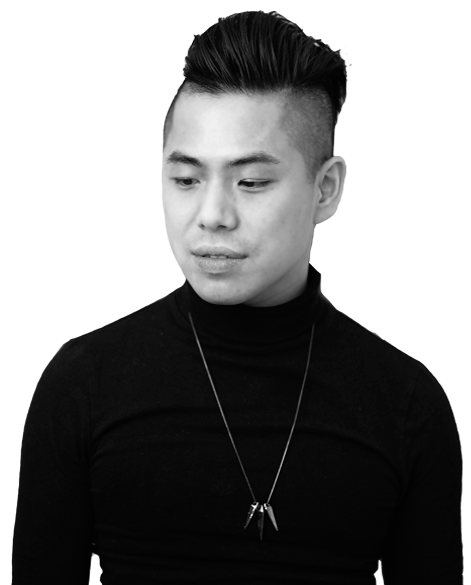
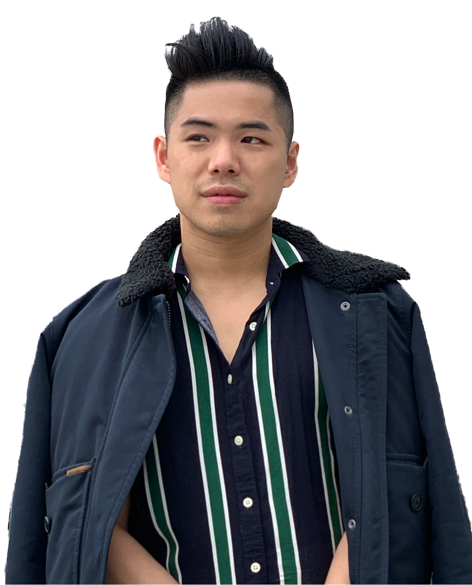
added opentable section added pictures added mail button

diff --git a/index.html b/index.html
@@ -26,7 +26,7 @@
 <section class="homepage"  id="home">
 <!-- CLOSES NAV -->
 			
-				<div class="img-responsive"><img style="width:100vw; position:absolute;bottom:-1px;left:-1px;" src="img/decor.svg" /></div>
+				<div class="img-responsive decor1"><img style="width:100vw; position:absolute;bottom:-1px;left:-1px;" src="img/decor.svg" /></div>
 				<div class="img-responsive"><img style="width:100vw; position:absolute;bottom:-1px; z-index:1000;" src="img/decor_2.svg" /></div>
 				<div class="container"> 
 					<div class="splash_img_mobile"><img src="img/dom.png" /></div>
@@ -41,7 +41,7 @@
 						<!--<div class="triangle front"></div> -->
 
 						<div class="col-md-4">
-							<div class="splash_img"><img src="img/dom.png" /></div>
+							<div class="splash_img"><img style="z-index:950;" src="img/dom.png" /></div>
 						</div>
 
 					</div>
@@ -56,6 +56,8 @@
 	</video>
 	</div>
 </section>-->
+
+
 
 <div class="navbar topnav" id="sticker" role="navigation" data-0="line-height:100px; height:100px;" data-250="line-height:60px; height:60px; background-color:rgba(255,255,255,1); box-shadow: 2px 2px 4px rgba(152,142,142,0.12);">
  
@@ -80,6 +82,27 @@
 <section id="section-works" class="section pad-bot30 ">
 		<div class="container"> 
 			<div class="row mar-bot40">
+
+
+<!-- opentable  -->
+<!--<article class="col-md-12">
+		<div class="portfolio-item" id="opentable">
+				<div class="col-md-4 project_thumb">
+						<img class="img-responsive mar-top15" src="img/opentable_thumb.png" />
+				</div>
+				<div class="col-md-8">
+						<h2 class="display_title">OpenTable - Dining Mode 2.0 </h2>
+						<h4 class="display_info">Mobile (B2C) | Company: OpenTable | 2020 </h4>
+	    	<p class="display_summary">This feature follows the users’ journey after booking. It houses other features that are programmatically changed depending on what part of the customer journey they’re in.</p>
+	    	
+	    	<div class="float_left mar-left15">
+	    	<a class ="primary_button" href="mailto:dom.pedruco@gmail.com">Request Link</a>
+	    	</div>
+	    	
+	</div>
+ </article>
+-->
+
 
 <!-- shipt  -->
 <article class="col-md-12">
@@ -136,8 +159,8 @@
 	</div>
  </article> 
 
-  <!-- Music Pix -->
-<article class="col-md-12 mar-top50">
+<!-- Music Pix -->
+ <!-- <article class="col-md-12 mar-top50">
 		<div class="portfolio-item" id="musicpix">
 				<div class="col-md-4 project_thumb">
 						<img class="img-responsive mar-top15" src="img/musicpix_thumb.png" />
@@ -153,6 +176,7 @@
 	    	
 	</div>
 </article>
+-->
 
 <!-- logos   -->
 <article class="col-md-12 mar-top50">
@@ -185,15 +209,14 @@
 			<br>
 			<h2 class="text-center txt-bold">Hello There!  </h2>
 			<br>
-			<p>I'm Dom, a Product Designer and San Francisco native working in the Bay Area. I graduated from the Academy of Art University with a BFA in Web Design and New Media.  I started my career working with startups specializing in User Experience and User Interface. As a product designer I go through every part of the design process from strategy to delivery. The key to my approach is to understand business goals, deep dive in user behavior, design with empathy in mind, and build within the constraints of development to create a usable product. I would consider myself pretty friendly and easy to talk to, so let’s talk. :) You can reach me at <a class="color_green" href="mailto:dom.pedruco@gmail.com">dom.pedruco@gmail.com</a>.
+			<p>I'm Dom, a Product Designer and San Francisco native working in the Bay Area. I graduated from the Academy of Art University with a BFA in Web Design and New Media.  I started my career working with startups specializing in User Experience and User Interface. As a product designer I go through every part of the design process from strategy to delivery. The key to my approach is to understand business goals, deep dive in user behavior, design with empathy in mind, and build within the constraints of development to create a usable product. I would consider myself pretty friendly and easy to talk to, so let’s talk :)
 			</p>
 
 			<div class="col-md-4"></div>
 			<div class="col-md-4">
 			<ul class="social center mar-top20">
-				<li><a href="dominic_pedruco_resume.pdf" target="_blank"><img class="img-responsive" src="img/resume_btn.svg" alt="resume"/> </a></li>
+				<li><a href="mailto:dom.pedruco@gmail.com" target="_blank"><img class="img-responsive" src="img/mail_btn.svg" alt="email"/> </a></li>
 				<li><a href="https://www.linkedin.com/in/dompedruco/" target="_blank"><img class="img-responsive mar-left15" src="img/linkedin_btn.svg" /> </a></li>
-				<li><a href="https://www.instagram.com/dompedruco/" target="_blank"><img class="img-responsive mar-left15" src="img/instagram_btn.svg" /> </a></li>
 				<li><a href="https://dribbble.com/dompedruco" target="_blank"><img class="img-responsive mar-left15" src="img/dribbble_btn.svg" /> </a></li>
 			</ul>
 			</div>

diff --git a/css/style.css b/css/style.css
@@ -861,6 +861,10 @@ nav#filter a {
 }
 
 /***************** TRANSITIONS FOR PORTFOLIO***************/
+#opentable{
+		background-color:#EF7979;
+}
+
 #shipt{
 	background-color:#6DC375;
 }
@@ -872,12 +876,12 @@ nav#filter a {
 	background-color:#7DC2CC;
 }
 
-#musicpix{
+<!--#musicpix{
 	background-color:#F3B563;
-}
+}-->
 
 #logos{
-	background-color:#EF7979;
+	background-color:#D995A9;
 }
 
 .portfolio-item {
@@ -1020,7 +1024,6 @@ section#footer {
 .social{
 	list-style-type:none;
 	width:250px;
-	margin-left:-20px;
 }
 .social>li{
 	display:block;
@@ -1232,6 +1235,8 @@ Media queries
 .splash_img{
 	display:none;
 }
+
+
 .splash_img_mobile{
 	opacity:0.3;
 	height:600px;
@@ -1242,7 +1247,9 @@ Media queries
 	overflow:hidden;
 	width:80%;
 }
-
+.decor1>img{
+	z-index: 1000;
+}	
 .project-items{
 	height:250px;
 	padding-top:20px;
@@ -1279,6 +1286,7 @@ h2.display_title{
 }
 
 @media (max-width: 767px) {
+
 .header_img{
 	display:none;
 }
